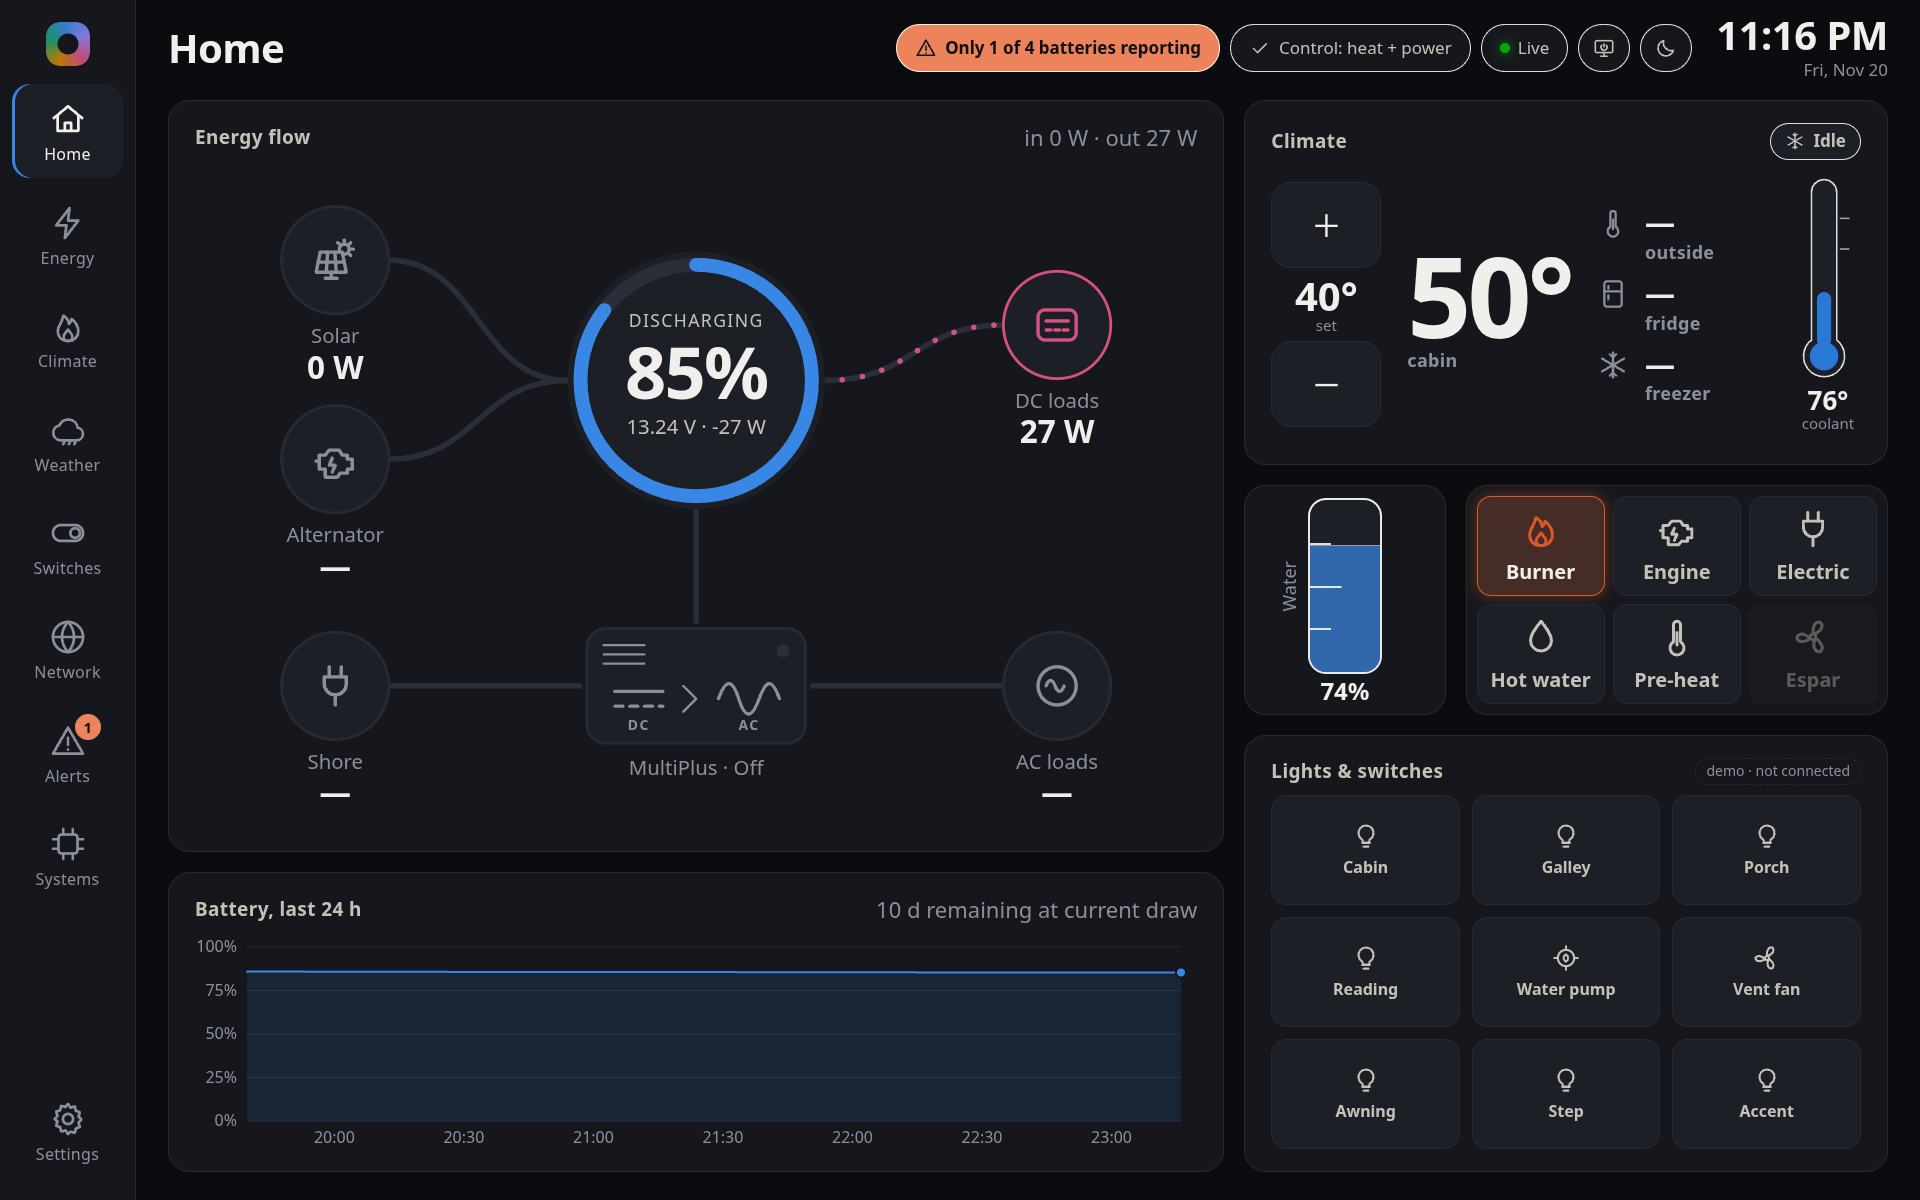
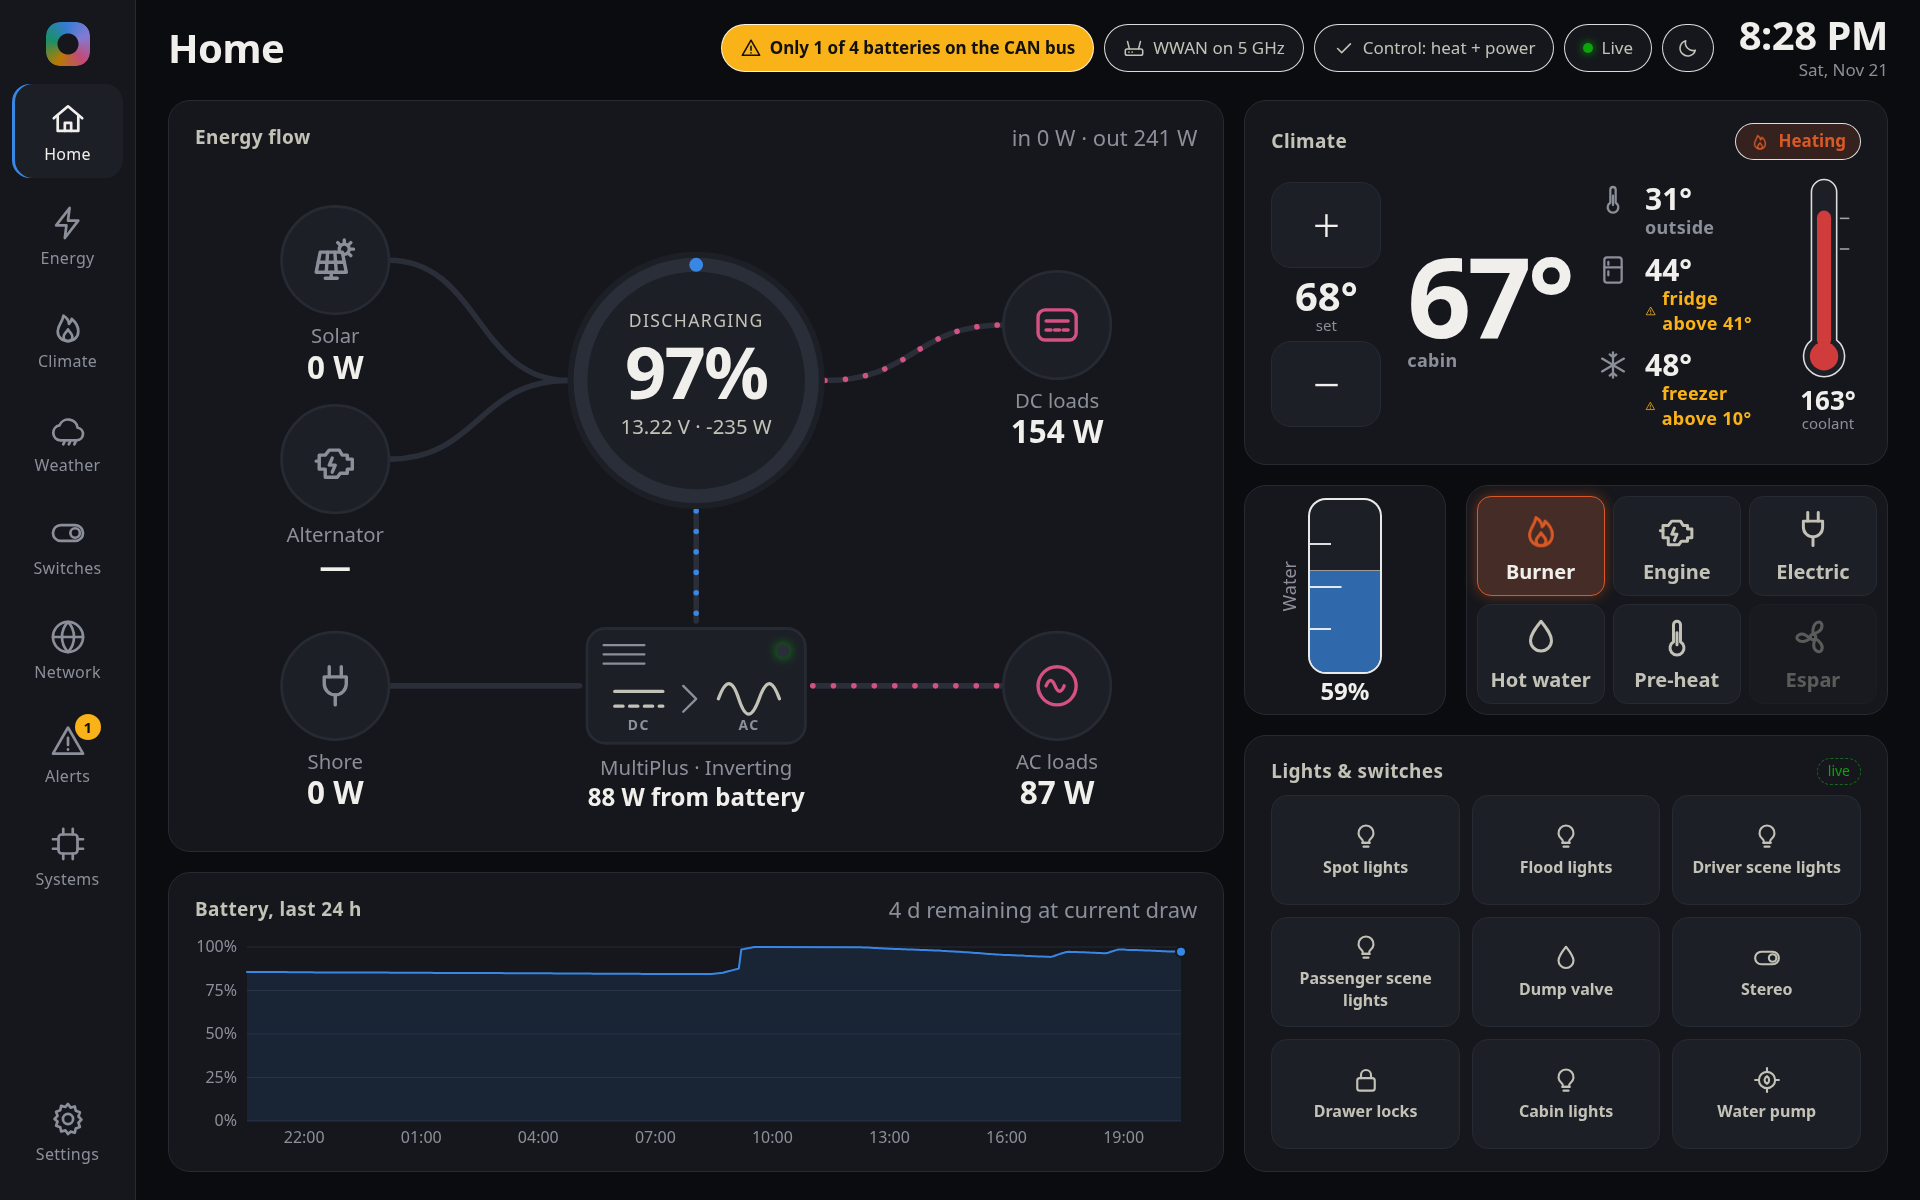
README: refreshed Home screenshot; add the Energy screen (3D battery bank)
Claude-Session: https://claude.ai/code/session_01Jyszw5WomTV2FtT2Ap4Hst

diff --git a/README.md b/README.md
@@ -5,7 +5,7 @@ screen, with chrome from the [AetherSDR](https://aethersdr.com) project.
 
 ![AetherRV home screen on the van's 10.1" touchscreen](docs/screenshots/home.png)
 
-<img src="docs/screenshots/climate.png" width="49%" alt="Climate screen: setpoint dial, Rixens MCS7 status and temperature history"> <img src="docs/screenshots/weather.png" width="49%" alt="Weather screen: radar map with a 7-day forecast">
+<img src="docs/screenshots/energy.png" width="32%" alt="Energy screen: 3D battery bank with four batteries read over Bluetooth, power readings, inverter and solar controls, power history"> <img src="docs/screenshots/climate.png" width="32%" alt="Climate screen: setpoint dial, Rixens MCS7 status and temperature history"> <img src="docs/screenshots/weather.png" width="32%" alt="Weather screen: radar map with a 7-day forecast">
 
 - **Energy:** a Victron Cerbo GX over MQTT shows battery, solar, shore, alternator, inverter and loads as an
   animated flow, with history. It controls MultiPlus mode, shore current limit and MPPT on/off. Individual
